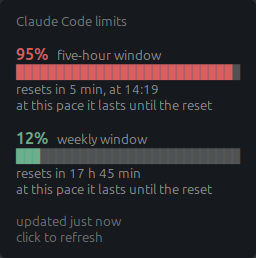
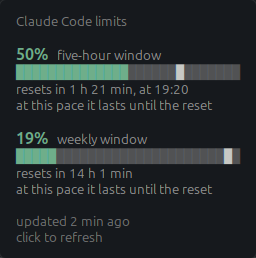
Show the pace mark in the hover card, not only in the panel (#1)
In the panel the mark is two pixels tall, which is too small to read at a
glance. The card has room for it, so both horizontal bars now carry the same
reference: one cell of the bar recoloured in the card's own ink.

It has to be a whole cell. A narrower glyph such as the one-eighth block ▏
draws only at the edge of its cell and leaves the remaining seven eighths
empty, punching a visible hole through the bar.

The cells are grouped into spans by colour, so the markup stays short even
though each cell is now decided on its own.

diff --git a/test/view.test.js b/test/view.test.js
@@ -12,6 +12,7 @@ const data = (sessionPercent, weeklyPercent) => ({
     session: { percent: sessionPercent, resetsAt: RESET_SESSION },
     weekly: { percent: weeklyPercent, resetsAt: RESET_WEEK }
 });
+const MARK = "<span " + View.PACE_MARK_SPAN + ">█</span>";
 const opts = (over) => Object.assign({ warn: 80, crit: 90, now: NOW, showPaceMark: true,
                                        clickToRefresh: true, t: Strings.EN }, over);
 
@@ -59,12 +60,14 @@ test("the tooltip markup begins with a zero-width space too", () => {
 });
 
 test("the tooltip bar length follows the percentage", () => {
+    // Counted by colour rather than by span position: how the cells are
+    // grouped into spans is markup detail, the accent run is the behaviour.
     const cells = (percent) => {
-        const block = View.limitBlock("window", { percent, resetsAt: 0 },
-                                      Usage.SESSION_WINDOW, opts());
-        const filled = block.slice(block.indexOf("<tt>"),
-                                   block.indexOf("</span>", block.indexOf("<tt>")));
-        return (filled.match(/█/g) || []).length;
+        const hex = View.colorFor(percent, 80, 90).hex;
+        const bar = View.limitBlock("window", { percent, resetsAt: 0 },
+                                    Usage.SESSION_WINDOW, opts()).split("\n")[1];
+        const runs = bar.match(new RegExp("<span fgcolor='" + hex + "'>(█+)</span>", "g")) || [];
+        return runs.reduce((n, run) => n + (run.match(/█/g) || []).length, 0);
     };
     assert.equal(cells(0), 0);
     assert.equal(cells(50), View.BAR_CELLS / 2);
@@ -78,6 +81,74 @@ test("the bar never spills outside its own cells", () => {
                                       Usage.SESSION_WINDOW, opts());
         assert.equal((block.match(/█/g) || []).length, View.BAR_CELLS, "percent " + percent);
     }
+});
+
+test("the tooltip bar carries the same pace mark as the panel", () => {
+    // In the panel the mark is a couple of pixels tall; the card is where it
+    // can actually be read, so the horizontal bar carries it too.
+    const halfway = NOW + Usage.SESSION_WINDOW / 2;
+    const bar = View.limitBlock("window", { percent: 42, resetsAt: halfway },
+                                Usage.SESSION_WINDOW, opts()).split("\n")[1];
+    assert.ok(bar.includes(MARK));
+    // Half the window gone puts the mark on the middle cell, and the cells
+    // before it are the fill, so 42% sits visibly behind the pace.
+    const cellsBeforeMark = bar.slice(0, bar.indexOf(MARK))
+                               .replace(/<[^>]*>/g, "").length;
+    assert.equal(cellsBeforeMark, View.BAR_CELLS / 2);
+});
+
+test("the bar still spans exactly its own cells once the mark is in it", () => {
+    const halfway = NOW + Usage.SESSION_WINDOW / 2;
+    for (const percent of [0, 1, 42, 50, 99, 100]) {
+        const bar = View.limitBlock("window", { percent, resetsAt: halfway },
+                                    Usage.SESSION_WINDOW, opts()).split("\n")[1];
+        const cells = bar.replace(/<[^>]*>/g, "").length;
+        assert.equal(cells, View.BAR_CELLS, "percent " + percent);
+        assert.equal(bar.split(MARK).length - 1, 1);
+    }
+});
+
+test("fill runs past the mark when spending outruns the window", () => {
+    const halfway = NOW + Usage.SESSION_WINDOW / 2;
+    const bar = View.limitBlock("window", { percent: 90, resetsAt: halfway },
+                                Usage.SESSION_WINDOW, opts()).split("\n")[1];
+    // The mark cell is drawn out of the coloured run, so the accent colour has
+    // to appear on both sides of it.
+    const [before, after] = bar.split(MARK);
+    assert.ok(before.includes(View.ALARM.hex));
+    assert.ok(after.includes(View.ALARM.hex));
+});
+
+test("the tooltip mark obeys the same setting as the panel mark", () => {
+    const halfway = NOW + Usage.SESSION_WINDOW / 2;
+    const bar = View.limitBlock("window", { percent: 42, resetsAt: halfway },
+                                Usage.SESSION_WINDOW, opts({ showPaceMark: false }))
+                    .split("\n")[1];
+    assert.ok(!bar.includes(MARK));
+    assert.equal(bar.replace(/<[^>]*>/g, "").length, View.BAR_CELLS);
+});
+
+test("no mark is drawn while the pace is still unknown", () => {
+    const barelyStarted = NOW + Usage.SESSION_WINDOW - 360;
+    const bar = View.limitBlock("window", { percent: 4, resetsAt: barelyStarted },
+                                Usage.SESSION_WINDOW, opts()).split("\n")[1];
+    assert.ok(!bar.includes(MARK));
+});
+
+test("the mark never falls outside the bar", () => {
+    assert.equal(View.paceCell(0), 0);
+    assert.equal(View.paceCell(0.5), View.BAR_CELLS / 2);
+    // A window that has just about run out must not push the mark off the end.
+    assert.equal(View.paceCell(1), View.BAR_CELLS - 1);
+    assert.equal(View.paceCell(1.4), View.BAR_CELLS - 1);
+    assert.equal(View.paceCell(-0.2), 0);
+});
+
+test("both windows in the card get a mark, not just the session", () => {
+    const state = { data: { session: { percent: 42, resetsAt: NOW + Usage.SESSION_WINDOW / 2 },
+                            weekly: { percent: 18, resetsAt: NOW + Usage.WEEK_WINDOW / 2 } },
+                    fetchedAt: NOW };
+    assert.equal(View.tooltipMarkup(state, opts()).split(MARK).length - 1, 2);
 });
 
 test("the absolute reset time is shown only when the reset is today", () => {

diff --git a/claude-limits@paradoxm/lib/view.js b/claude-limits@paradoxm/lib/view.js
@@ -63,18 +63,54 @@ var panelMarkup = function(data, opts) {
         + data.weekly.percent + "</span>";
 };
 
+// The pace mark is a whole cell of the bar recoloured in the card's own ink,
+// not a narrower glyph: a partial block such as ▏ draws only at the edge of
+// its cell and leaves the remaining seven eighths empty, punching a visible
+// hole through the bar.
+var PACE_MARK_SPAN = "alpha='85%'";
+
+// The cell the pace mark falls on, or -1 for no mark. Clamped inside the bar:
+// a mark past the last cell would simply vanish.
+var paceCell = function(fraction) {
+    return Math.min(BAR_CELLS - 1, Math.max(0, Math.round(fraction * BAR_CELLS)));
+};
+
+// Cells of one colour are emitted as one span, so the markup stays short even
+// though every cell is decided on its own.
+var barMarkup = function(percent, hex, markCell) {
+    var filled = Math.min(BAR_CELLS, Math.max(0, Math.round(percent / 100 * BAR_CELLS)));
+    var out = "";
+    var run = null;
+    var flush = function() {
+        if (run) out += "<span " + run.span + ">" + run.text + "</span>";
+        run = null;
+    };
+
+    for (var i = 0; i < BAR_CELLS; i++) {
+        var span = (i === markCell) ? PACE_MARK_SPAN
+                 : (i < filled ? "fgcolor='" + hex + "'" : "alpha='28%'");
+        if (run && run.span === span) run.text += "█";
+        else { flush(); run = { span: span, text: "█" }; }
+    }
+    flush();
+    return "<tt>" + out + "</tt>";
+};
+
 var limitBlock = function(title, limit, window, opts) {
     var t = opts.t;
     var hex = colorFor(limit.percent, opts.warn, opts.crit).hex;
-    var filled = Math.min(BAR_CELLS, Math.max(0, Math.round(limit.percent / 100 * BAR_CELLS)));
+    var p = Usage.pace(limit, window, opts.now);
+
+    // The same reference the panel bar carries, at a size the eye can read:
+    // fill past the mark means spending is ahead of the window's recovery.
+    var markCell = (p && opts.showPaceMark) ? paceCell(p.fraction) : -1;
 
     // The number leads and the label follows, quieter: the data matters more
     // than its name.
     var lines = [
         "<span fgcolor='" + hex + "'><b><big>" + limit.percent + "%</big></b></span>"
             + "   <span alpha='60%'>" + title + "</span>",
-        "<tt><span fgcolor='" + hex + "'>" + "█".repeat(filled) + "</span>"
-            + "<span alpha='28%'>" + "█".repeat(BAR_CELLS - filled) + "</span></tt>"
+        barMarkup(limit.percent, hex, markCell)
     ];
 
     if (limit.resetsAt) {
@@ -84,7 +120,6 @@ var limitBlock = function(title, limit, window, opts) {
         lines.push("<span alpha='60%'>" + when + "</span>");
     }
 
-    var p = Usage.pace(limit, window, opts.now);
     if (p && p.exhaustsAt)
         lines.push("<span fgcolor='" + WATCH.hex + "'>"
                    + t.exhaustedBy(Format.formatClock(p.exhaustsAt)) + "</span>");
@@ -164,5 +199,6 @@ var barsWidth = function() { return BAR_WIDTH * 2 + BAR_GAP; };
 
 if (typeof module !== "undefined")
     module.exports = { CALM, WATCH, ALARM, BAR_CELLS, BAR_WIDTH, BAR_GAP, LEAD,
-                       colorFor, isMuted, pauseText, titleMarkup, panelMarkup,
+                       colorFor, isMuted, pauseText, titleMarkup, panelMarkup, PACE_MARK_SPAN,
+                       paceCell, barMarkup,
                        limitBlock, tooltipMarkup, barLayout, barsWidth };

diff --git a/README.md b/README.md
@@ -18,9 +18,11 @@ can be hidden, shown on their own, or shown alongside.
 <br clear="left">
 
 Hovering gives a card with the percentages, the bars, a countdown to the reset
-and a verdict — *at this pace you hit the limit by 13:46*. It is recomputed as
-the pointer arrives, so the countdown and *updated N minutes ago* are always
-current rather than frozen at the moment of the last request.
+and a verdict — *at this pace you hit the limit by 13:46*. Both bars carry the
+same pace mark as the panel, at a size the eye can actually read: fill past the
+mark means you are ahead of the clock. The card is recomputed as the pointer
+arrives, so the countdown and *updated N minutes ago* are always current rather
+than frozen at the moment of the last request.
 
 ![The hover card](docs/tooltip.png)
 
@@ -118,7 +120,7 @@ another decides how to say it.
 npm test
 ```
 
-76 tests, run against a real captured API response rather than an invented
+83 tests, run against a real captured API response rather than an invented
 shape. Coverage of `lib/`: 100% of lines and functions.
 
 One branch in `lib/view.js` stays uncovered — the one that loads the sibling
